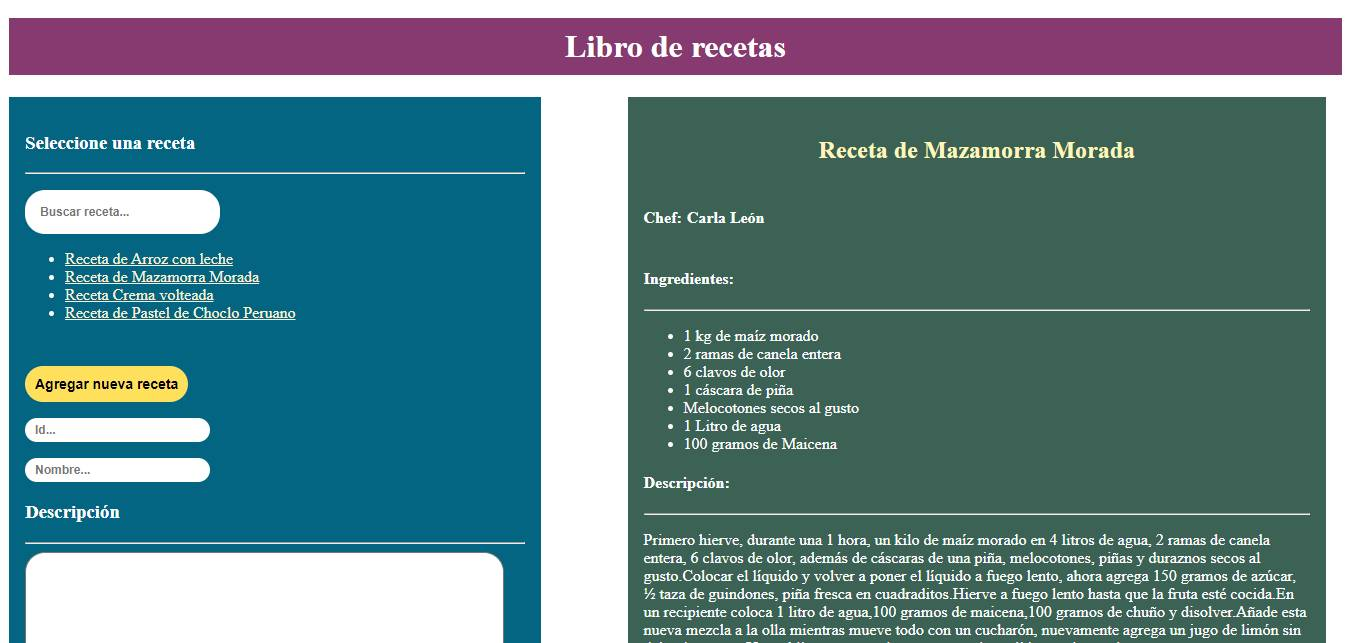
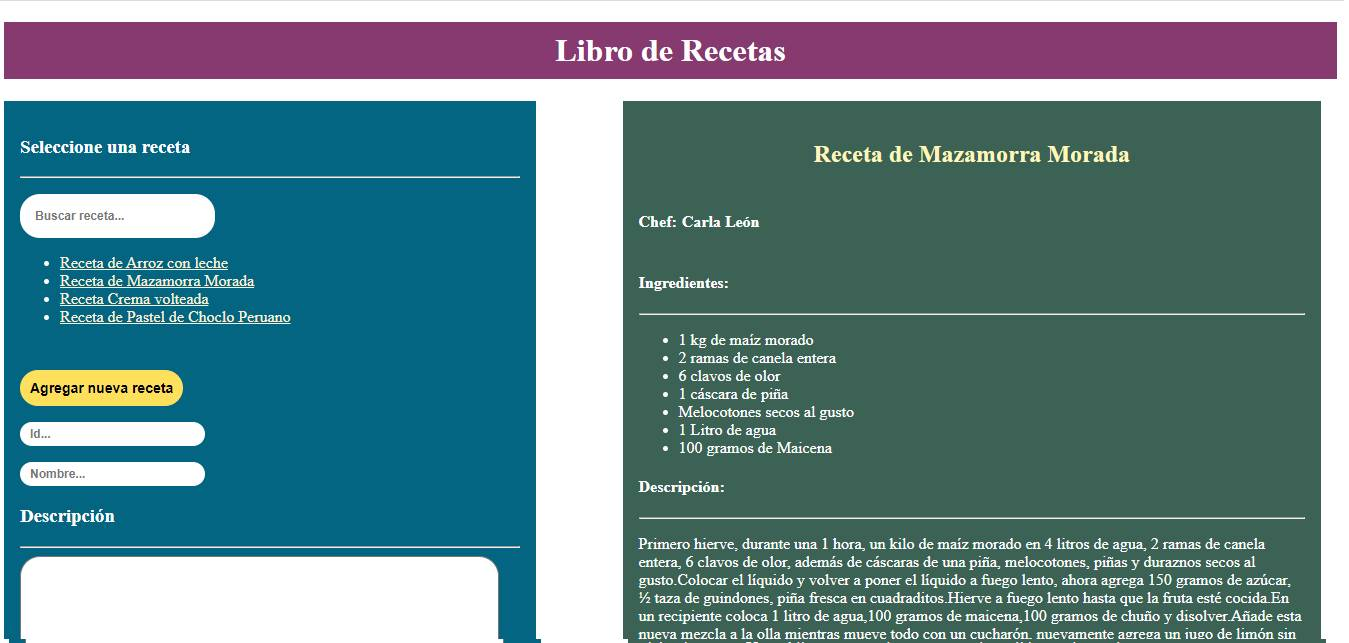
fix title and README

diff --git a/index.html b/index.html
@@ -11,7 +11,7 @@
 
 <body>
     <div class="container-recetas" id="appReceta">
-        <h1 class="container-recetas__title">Libro de recetas</h1>
+        <h1 class="container-recetas__title">Libro de Recetas</h1>
 
         <!-- COLUMN LEFT -->
         <div class="container-recetas__left">
